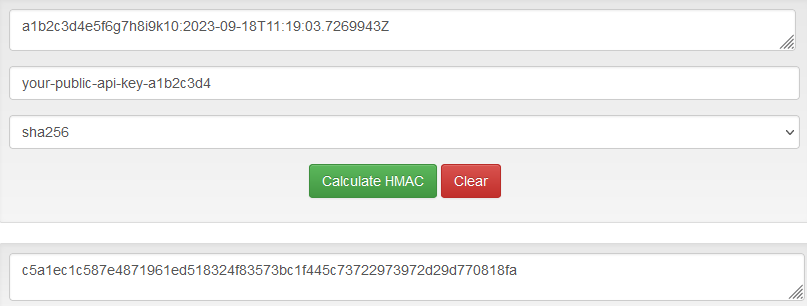
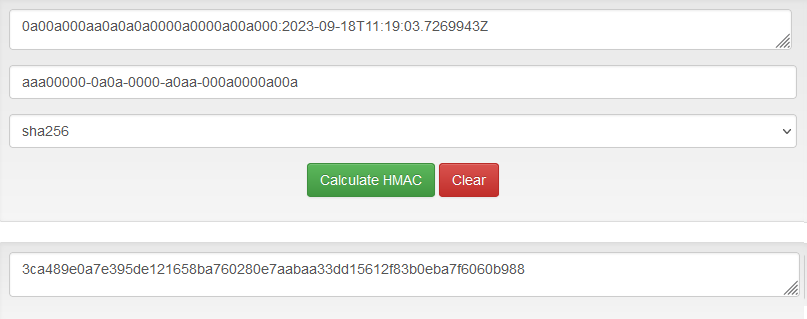
api v2 updates

diff --git a/ApiV2.md b/ApiV2.md
@@ -23,8 +23,8 @@ Account API
 
 ## Authentication
 Typsy will provide you with the following items:
-1. Public API Key: A unique key used to generate a hash.  The key is in the following format: your-public-api-key-a1b2c3d4
-2. Private API Key: a1b2c3d4e5f6g7h8i9k10
+1. Public API Key: A unique key used to generate a hash.  The key is in the following format: aaa00000-0a0a-0000-a0aa-000a0000a00a
+2. Private API Key: 0a00a000aa0a0a0a0000a0000a00a000
 
 ### Generating the HMAC SHA256 Hash
 The following values are required to produce the hash which is included with each request.
@@ -45,25 +45,25 @@ Failure to provide a current UTC timestamp will result in a 401 status code and 
 	"Timestamp '2018-11-14T11:19:03.7269943Z' outside of acceptable range. Ensure that the timestamp you provide is current UTC time - e.g. now is '2023-08-09T23:18:21.4801739Z'."
 
 #### Typsy Key
-The value for the Typsy-Key header value is a Hash of your Typsy Key and UTC timestamp.  
+The value for the Typsy-Key header value is a Hash of your Typsy Keys and UTC timestamp.  
 
-The value is created by concatenating your **Typsy Key** with the **UTC timestamp**. The hash must be generated for each request as it contains a timestamp.
+The value is created by concatenating your **Private API Key** with the **UTC timestamp**. The hash must be generated for each request as it contains a timestamp.
 
-If your Private API Key is **a1b2c3d4e5f6g7h8i9k10** and the UTC timestamp is **2023-09-18T11:19:03.7269943Z** then you concatenate as follows:
+If your Private API Key is **0a00a000aa0a0a0a0000a0000a00a000** and the UTC timestamp is **2023-09-18T11:19:03.7269943Z** then you concatenate as follows:
 
 	{PRIVATE KEY}:{TIMESTAMP}
 
-	a1b2c3d4e5f6g7h8i9k10:2023-09-18T11:19:03.7269943Z
+	0a00a000aa0a0a0a0000a0000a00a000:2023-09-18T11:19:03.7269943Z
 
 This value is then hashed with your Public API Key to generate your HMAC-SHA-256-SECRET.
 
 The secret generated by the above example is: 
 	
[2 lines of base64/hex data omitted]
 
 This can be demonstrated/tested using the following tool: http://beautifytools.com/hmac-generator.php
-1. Where it says 'Enter message here' place: a1b2c3d4e5f6g7h8i9k10:2023-09-18T11:19:03.7269943Z
-2. Where it says 'Secret key' place: a1b2c3d4e5f6g7h8i9k10
+1. Where it says 'Enter message here' place: 0a00a000aa0a0a0a0000a0000a00a000:2023-09-18T11:19:03.7269943Z
+2. Where it says 'Secret key' place: aaa00000-0a0a-0000-a0aa-000a0000a00a
 3. Select alogorithim: sha256
 
 ![image](https://github.com/typsy-dev/documentation/blob/master/assets/hmac_generation.png)
